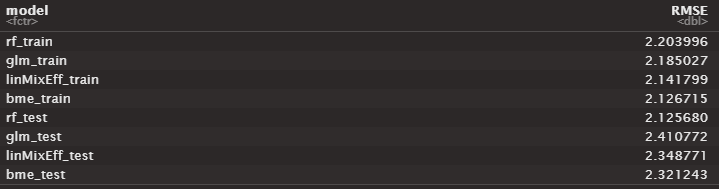
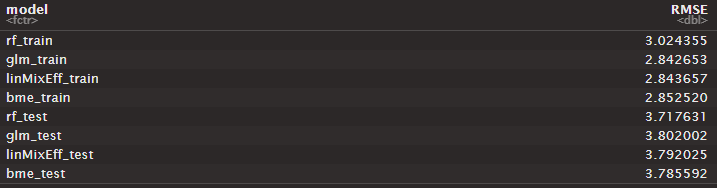
add text interpretation of model comparison plots

diff --git a/README.md b/README.md
@@ -291,7 +291,7 @@ Again similar to PCA, the features appear (for the most part) to represent indep
 * Linear Mixed Effects
 * Bayesian Mixed Effects
 
-### GLM
+### General Linear Model
 
 #### Setup
 ```{r}
@@ -307,6 +307,7 @@ train$glm_train <- predict(gauss)
 test$glm_test <- predict(gauss, newdata = test)
 ```
 
+#### Summary
 ```
  (Intercept)          AGE         MMSE PTGENDERMale     PTEDUCAT       APOE41       APOE42       DXEMCI       DXLMCI         DXAD 
 9.776112e-02 6.930991e-02 9.156906e-04 1.409894e-01 8.494118e-01 2.626664e-01 2.417992e-01 8.280865e-01 6.833086e-05 4.718292e-11 
@@ -347,7 +348,7 @@ In terms of feature importances, the only significant coefficients (after p.valu
 
 <p align="right">(<a href="#top">back to top</a>)</p>
 
-### RF
+### Random Forest
 
 #### Setup
 ```{r}
@@ -365,6 +366,7 @@ train$rf_train <- predict(rf)
 test$rf_test <- predict(rf, newdata = test)
 ```
 
+#### Summary
 ```
 Call:
  randomForest(formula = MMSE.Change ~ AGE + MMSE + PTGENDER +      PTEDUCAT + APOE4 + DX, data = train, ntrees = 500, importance = TRUE,      type = "regression") 
@@ -411,6 +413,7 @@ train$linMixEff_train <- predict(linMixEff)
 test$linMixEff_test <- predict(linMixEff, newdata = test)
 ```
 
+#### Summary
 ```
 Linear mixed-effects model fit by REML
   Data: train 
@@ -469,7 +472,7 @@ logLik: -989.6201
 </figure>
 
 
-### Bayesian Mixed effects:
+### Bayesian Mixed Effects
 
 ```{r}
 # Train
@@ -484,7 +487,7 @@ train$bme_train <- predict(bme)[,1]
 test$bme_test <- predict(bme, newdata = test)[,1]
 ```
 
-
+#### Summary
 ```
  Family: gaussian 
   Links: mu = identity; sigma = identity 
@@ -523,7 +526,9 @@ scale reduction factor on split chains (at convergence, Rhat = 1).
 </figure>
 
 
-#### Evaluation
+### Evaluation
+
+#### Reformat results
 ```{r}
 # Cleaning results for plotting
 train2 <- train %>%
@@ -537,19 +542,22 @@ test2 <- test %>%
 results <- train2 %>% bind_rows(test2)
 ```
 
-
+#### RMSE
 ```{r}
 # RMSE:
 results %>% 
   group_by(model) %>%
-  summarize(RMSE = sqrt(mean(ypred ^ 2)))
+  summarize(RMSE = sqrt(mean(predresidual ^ 2)))
 ```
+
 <figure>
   <img src="./img/RMSE.png", width = "720">
-  <figcaption><b>Fig .</b> Comparisons of absolute prediction error between models.</figcaption>
+  <figcaption><b>Fig .</b> RMSE per model.</figcaption>
 </figure>
 
+While the RMSE was technically the lowest for the general linear model model for the training set, the random forest performed the best on the test dataset.
 
+#### Absolute Residual per Model
 ```{r}
 results %>% 
   ggplot(aes(x = model, y = sqrt(abs(predresidual)), color = model, fill = model)) + 
@@ -563,7 +571,10 @@ results %>%
   <figcaption><b>Fig .</b> Comparisons of absolute prediction error between models.</figcaption>
 </figure>
 
+While the mean absolute error appears to be essentially identical for all models. Bars/errorbars indicate mean/SEM respectively. Square Root transform is applied to the y-axis for visual purposes as a few values have very large residuals.
 
+
+#### Absolute Residual per Model per Individual
 ```{r}
 results %>%
   ggplot(aes(x = model, y = sqrt(abs(predresidual)), color = model, fill = model)) + 
@@ -573,10 +584,10 @@ results %>%
 ```
 <figure>
   <img src="./img/lineResiduals.png", width = "720">
-  <figcaption><b>Fig .</b> Comparisons of prediction error between models.</figcaption>
+  <figcaption><b>Fig .</b> Comparisons of prediction error between models for each individual.</figcaption>
 </figure>
 
-
+GLM, LME, and BME all produce relatively similar predictions for an individual. (As indicated by horizontal lines between the models). On the other hand, Random forest seems to substantially differ from the other three models. 
 
 <p align="right">(<a href="#top">back to top</a>)</p>
 
